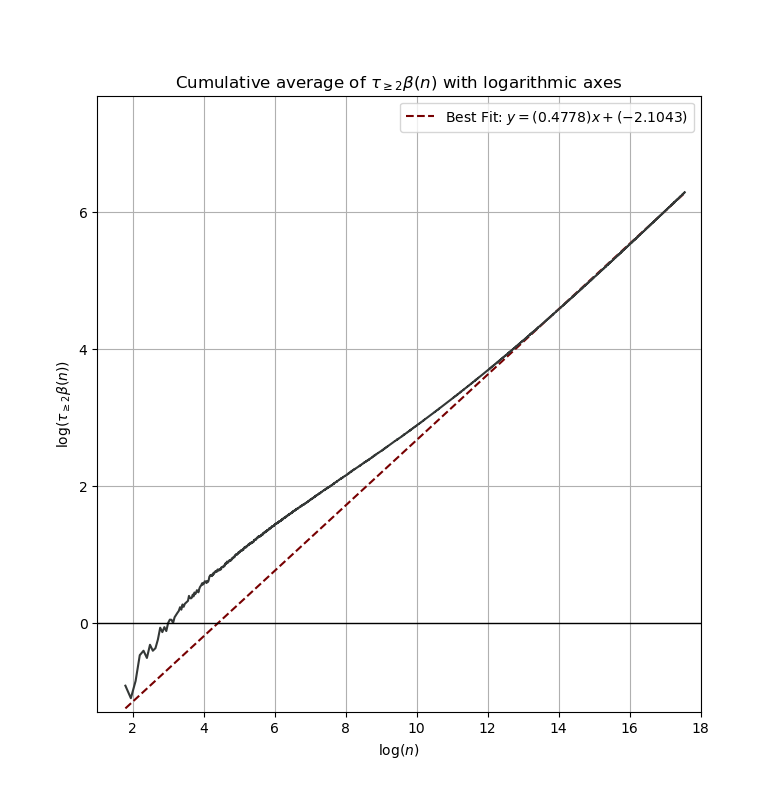
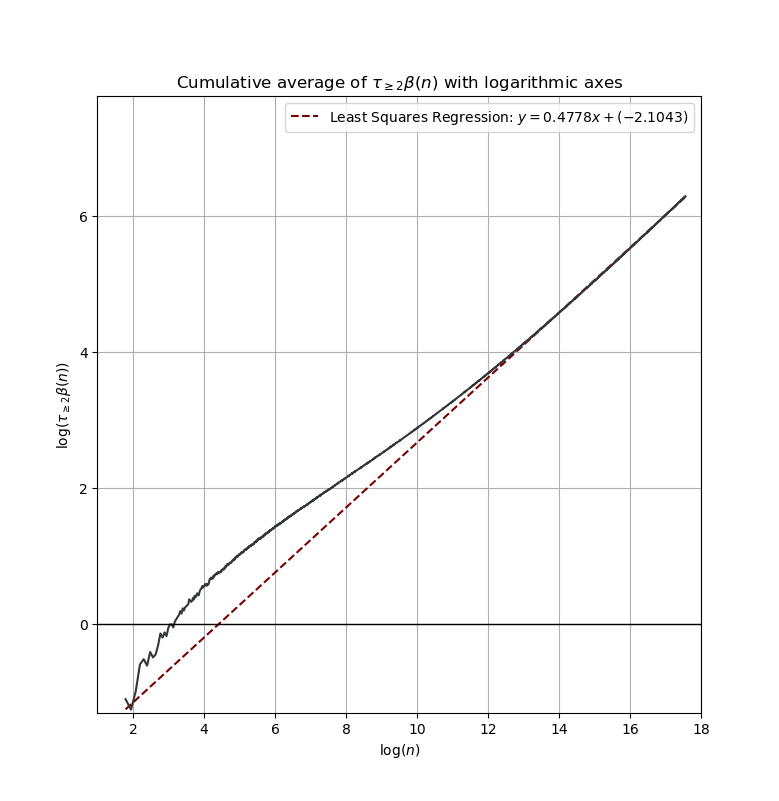
Minor changes to graphs

diff --git a/data/graph_maker.py b/data/graph_maker.py
@@ -152,7 +152,7 @@ plt.show()
 # plt.show()
 
 # Cumulative avg. for 'Integers vs poly_divisors' with 'Integers vs poly_divisors'
-cumulative_avg = np.cumsum(data['poly_divisors']) / np.arange(1, len(data['poly_divisors'])+1)
+cumulative_avg = np.cumsum(data['poly_divisors']) / np.arange(2, len(data['poly_divisors'])+2)
 plt.xlim(0, max_full)
 plt.ylim(0, hundred_ceil_full)
 plt.xlabel("n")
@@ -177,7 +177,7 @@ m, c = np.polyfit(log_num, log_poly_divs_avg, 1)
 best_fit_line = m * log_num + c
 
 plt.plot(log_num, best_fit_line, color='xkcd:blood', linestyle='--', 
-         label=f'Best Fit: $y = ({m:.4f})x + ({c:.4f})$')
+         label=f'Least Squares Regression: $y = {m:.4f}x + ({c:.4f})$')
 
 plt.plot(log_num, log_poly_divs_avg, color="xkcd:charcoal")
 plt.grid(True, zorder=0)
